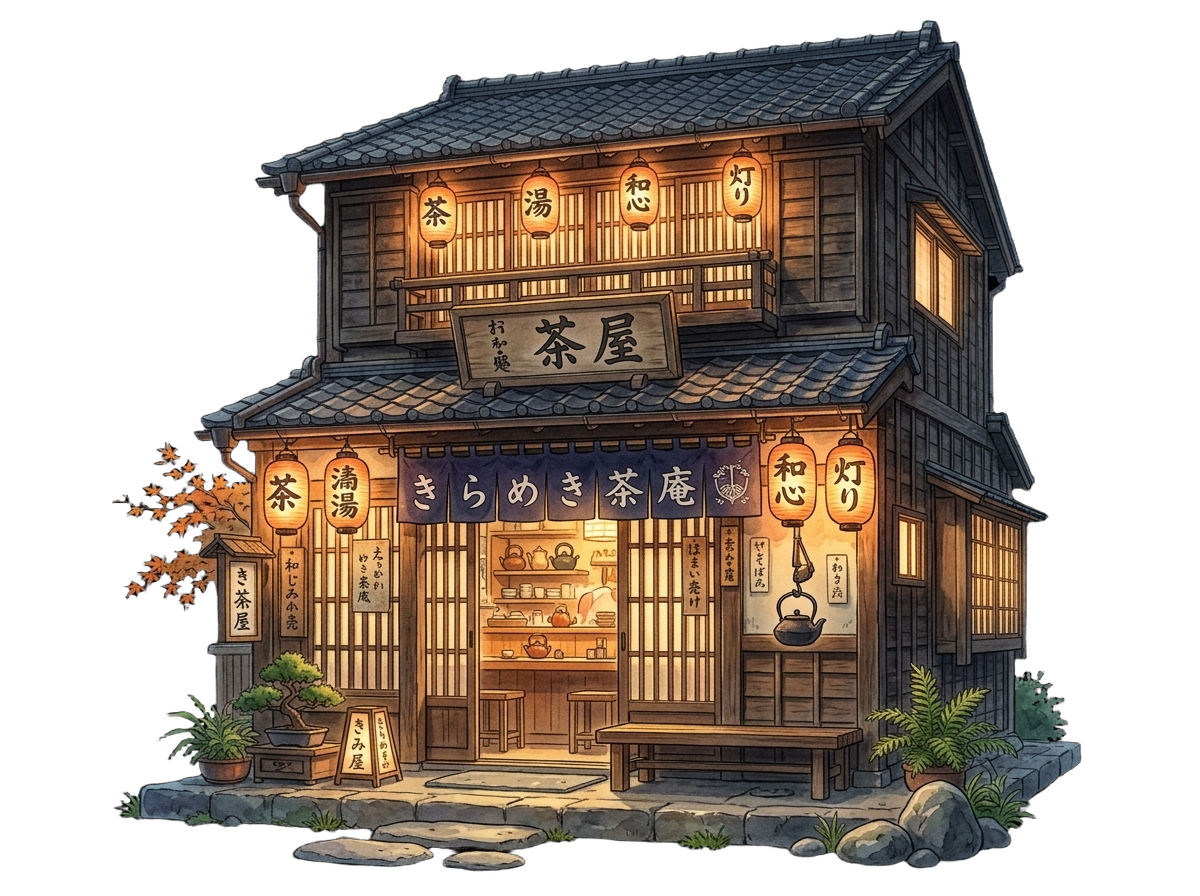
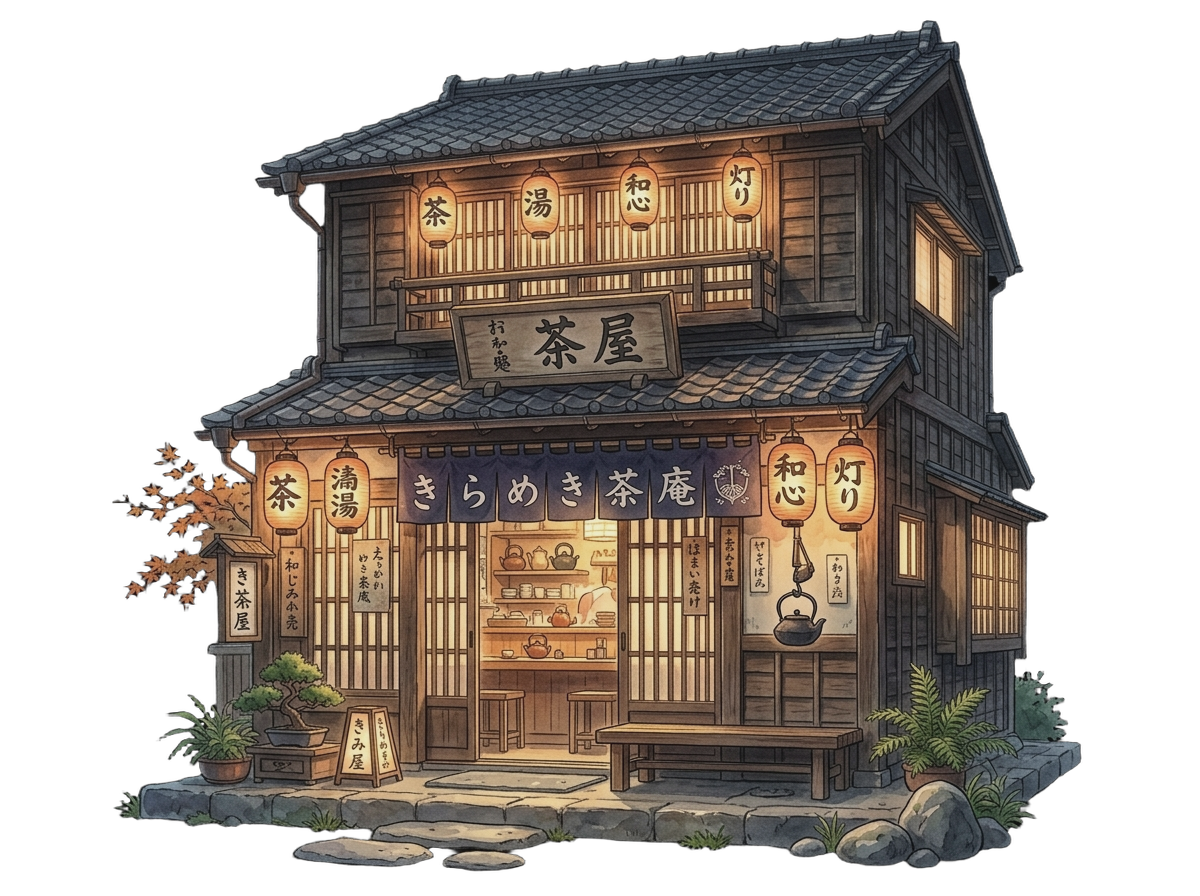
Soften contrast and lift shadow brightness for the 3 Japan buildings (Teahouse, Pagoda, House Minka)

diff --git a/index.html b/index.html
@@ -1052,19 +1052,19 @@
             multiplaneGroup.add(cherryTree);
         });
 
-        // Diorama 4 "Made In Japan": Teahouse & Pagoda framing sides, House4 placed right after DREAMS text (Z = -160.5) with tiny Z gap!
-        const teahouse = createBillboard('assets/japanese_teahouse.png', 13.5, 11.0);
+        // Diorama 4 "Made In Japan": Teahouse & Pagoda framing sides, House4 placed right after DREAMS text (Z = -159.0) with tiny Z gap!
+        const teahouse = createBillboard('assets/japanese_teahouse.png?v=2', 13.5, 11.0);
         teahouse.position.set(-7.5, 4.1, -125.5);
         teahouse.scale.x = -1; // Flipped left building horizontally for symmetrical framing
         if (teahouse.material) teahouse.material.depthWrite = false;
         multiplaneGroup.add(teahouse);
 
-        const pagoda = createBillboard('assets/pagoda_shrine.png', 13.0, 16.5);
+        const pagoda = createBillboard('assets/pagoda_shrine.png?v=2', 13.0, 16.5);
         pagoda.position.set(7.5, 5.2, -125.5);
         if (pagoda.material) pagoda.material.depthWrite = false;
         multiplaneGroup.add(pagoda);
 
-        const house4 = createBillboard('assets/house_country_minka.png', 14.5, 14.5);
+        const house4 = createBillboard('assets/house_country_minka.png?v=2', 14.5, 14.5);
         house4.position.set(0.0, 5.4, -159.0);
         if (house4.material) house4.material.depthWrite = false;
         multiplaneGroup.add(house4);
